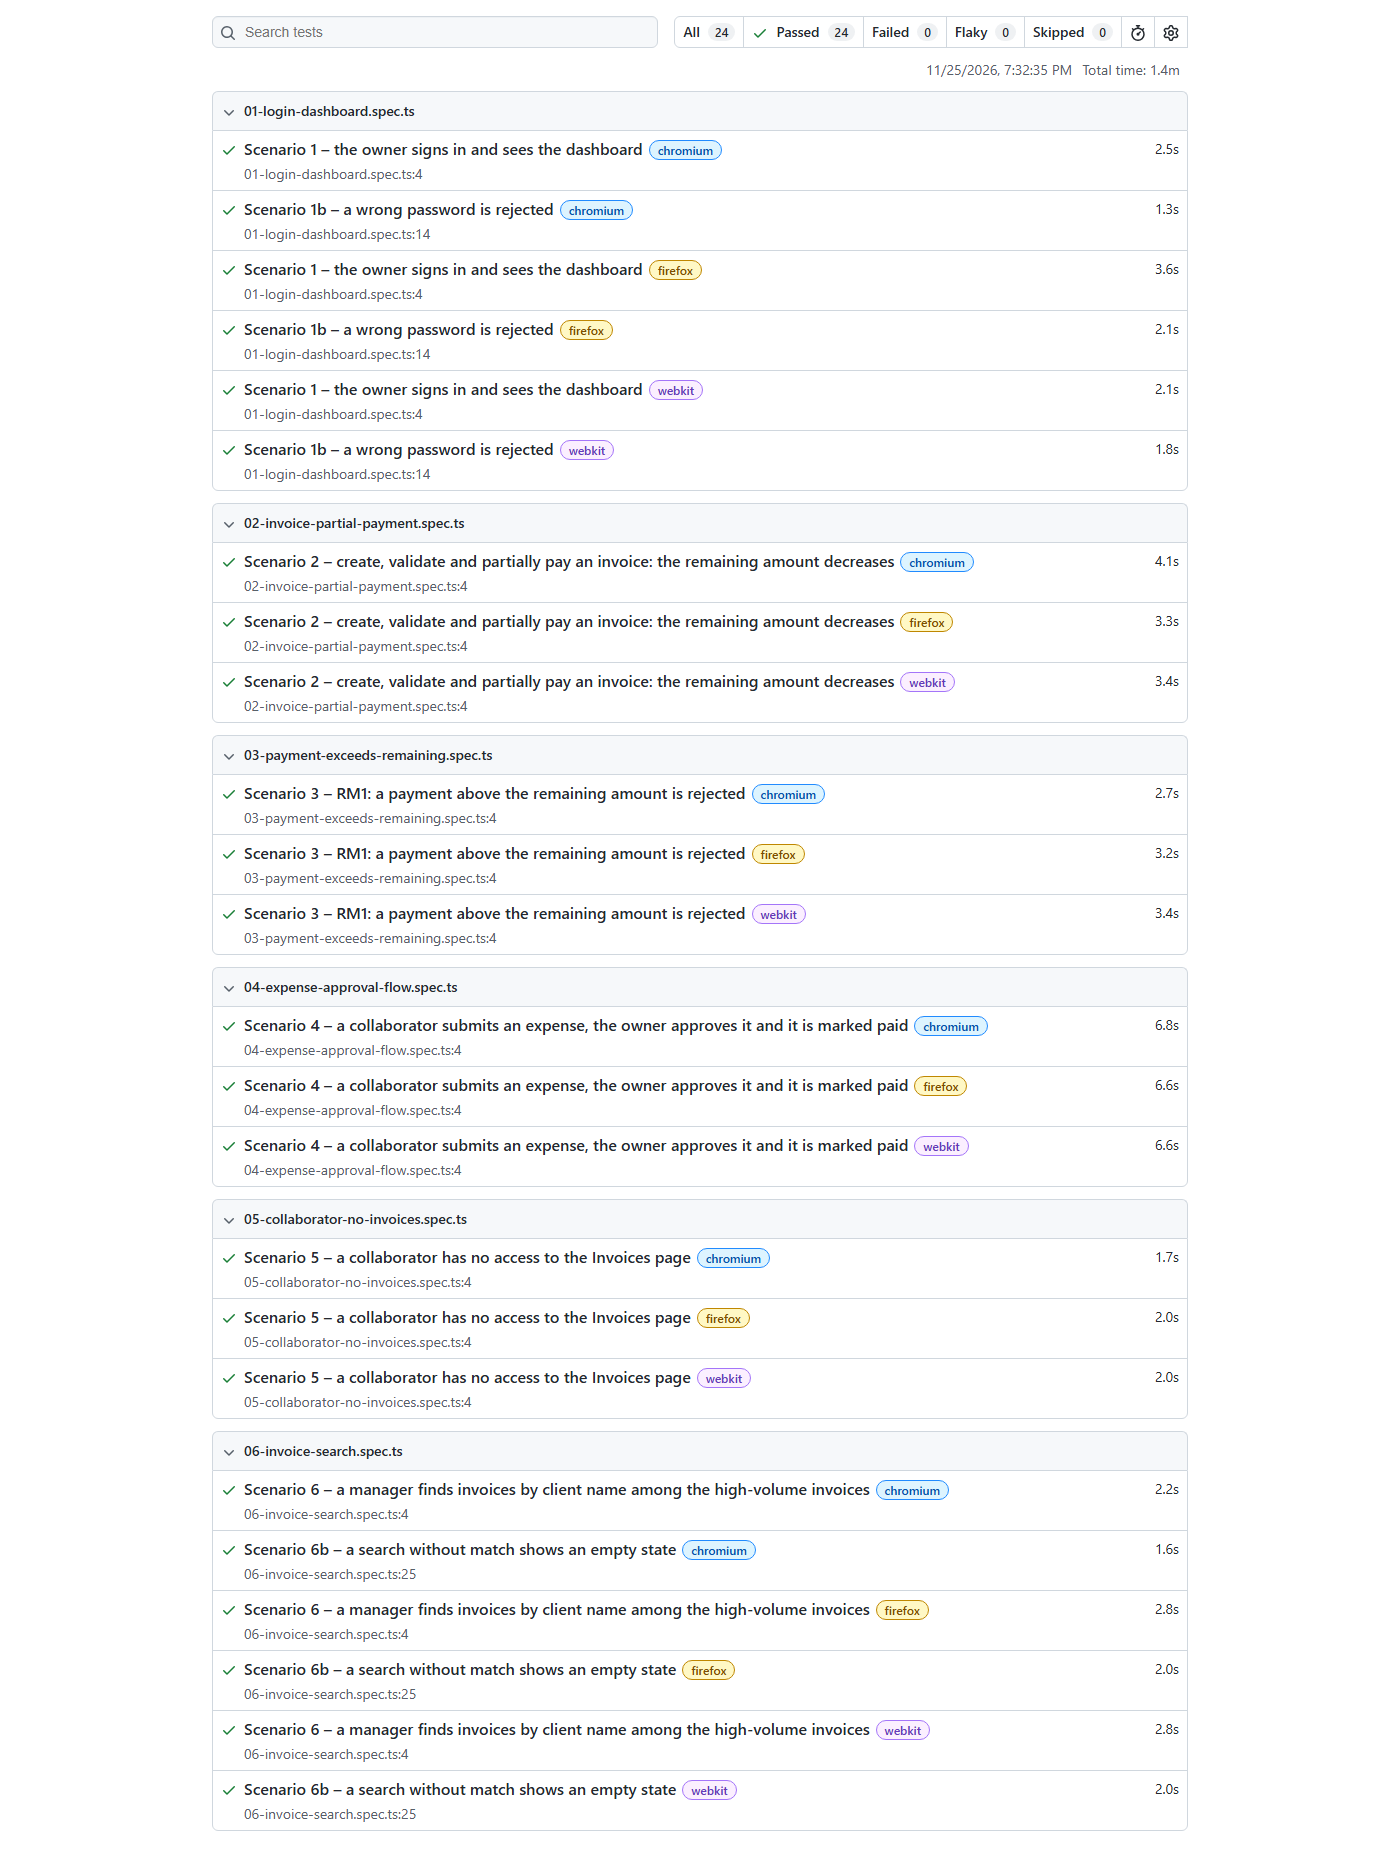
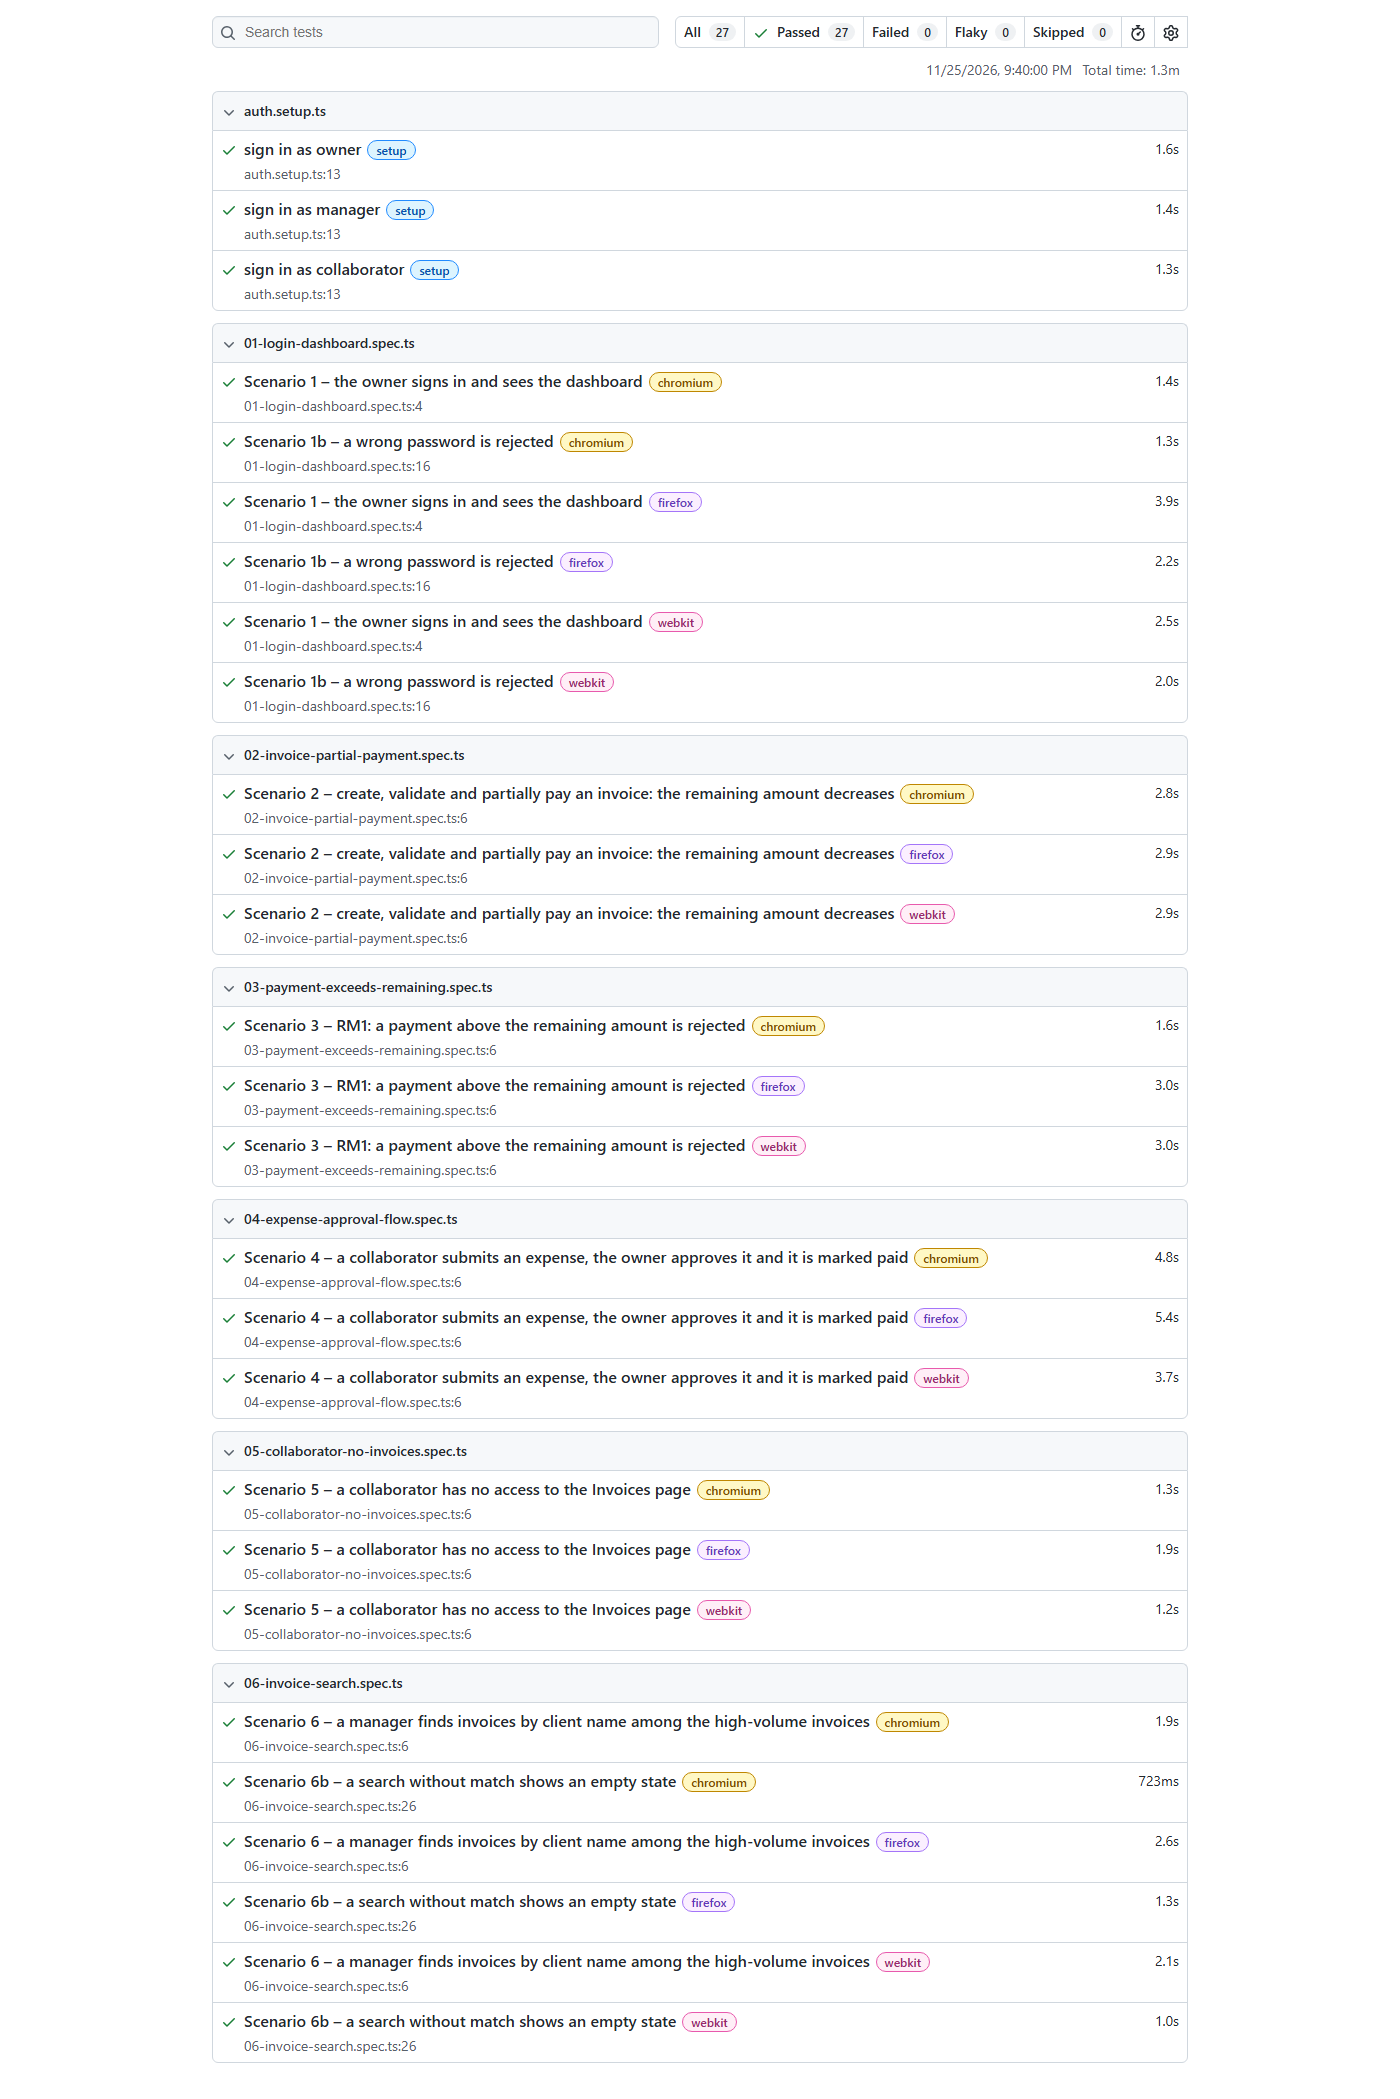
test: reuse one signed-in session per role in E2E
A setup project signs each demo role in once through the real login
form and saves the session; scenarios reuse it. Scenario 4 uses two
browser contexts instead of signing out (sign-out deletes the shared
session). Scenario 1b uses the collaborator account.

A full 3-browser run now makes at most 4 login attempts per account
(manager was 12), so a per-account login rate limit cannot break it.

Evidence 6.1 / 6.3 recaptured from the new run (27/27).

diff --git a/tests/e2e/04-expense-approval-flow.spec.ts b/tests/e2e/04-expense-approval-flow.spec.ts
@@ -1,11 +1,12 @@
 import { expect, test } from "@playwright/test";
-import { login, logout, pdfReceipt, successMessage, uniqueSuffix } from "./helpers";
+import { authFile, pageAs, pdfReceipt, successMessage, uniqueSuffix } from "./helpers";
 
-test("Scenario 4 – a collaborator submits an expense, the owner approves it and it is marked paid", async ({ page }) => {
+test.use({ storageState: authFile("collaborator") });
+
+test("Scenario 4 – a collaborator submits an expense, the owner approves it and it is marked paid", async ({ page, browser }) => {
   const description = `E2E taxi ${uniqueSuffix()}`;
 
   // 1. Collaborator submits the expense with a receipt.
-  await login(page, "collaborator");
   await page.goto("/expenses");
   const form = page.locator("form").filter({ has: page.getByRole("button", { name: "Submit for approval" }) });
   await form.getByLabel("Category").selectOption("Travel");
@@ -17,19 +18,19 @@ test("Scenario 4 – a collaborator submits an expense, the owner approves it an
   await expect(successMessage(page)).toContainText("Expense submitted for approval.");
   const row = page.getByRole("row").filter({ hasText: description });
   await expect(row).toContainText("Pending approval");
-  await logout(page);
 
-  // 2. Owner approves it.
-  await login(page, "owner");
-  await page.goto("/expenses");
-  await page.getByRole("link", { name: description }).click();
-  await expect(page.getByRole("heading", { level: 1, name: description })).toBeVisible();
-  await page.getByRole("button", { name: "Approve" }).click();
-  await expect(successMessage(page)).toContainText("Expense approved.");
-  await expect(page.locator(".page-header .badge")).toHaveText("Approved");
+  // 2. Owner approves it, in a separate browser session.
+  const owner = await pageAs(browser, "owner");
+  await owner.goto("/expenses");
+  await owner.getByRole("link", { name: description }).click();
+  await expect(owner.getByRole("heading", { level: 1, name: description })).toBeVisible();
+  await owner.getByRole("button", { name: "Approve" }).click();
+  await expect(successMessage(owner)).toContainText("Expense approved.");
+  await expect(owner.locator(".page-header .badge")).toHaveText("Approved");
 
   // 3. Owner records the payment.
-  await page.getByRole("button", { name: "Mark as paid" }).click();
-  await expect(successMessage(page)).toContainText("Expense payment recorded.");
-  await expect(page.locator(".page-header .badge")).toHaveText("Paid");
+  await owner.getByRole("button", { name: "Mark as paid" }).click();
+  await expect(successMessage(owner)).toContainText("Expense payment recorded.");
+  await expect(owner.locator(".page-header .badge")).toHaveText("Paid");
+  await owner.context().close();
 });

diff --git a/tests/e2e/helpers.ts b/tests/e2e/helpers.ts
@@ -1,6 +1,12 @@
-import { expect, type Locator, type Page } from "@playwright/test";
+import path from "node:path";
+import { expect, test, type Browser, type Locator, type Page } from "@playwright/test";
 
 export type DemoRole = "owner" | "manager" | "collaborator";
+
+/** Session file saved by `auth.setup.ts` for a demo role. */
+export function authFile(role: DemoRole) {
+  return path.join(__dirname, "..", "..", "playwright", ".auth", `${role}.json`);
+}
 
 /** Signs in through the real login form with a seeded demo account. */
 export async function login(page: Page, role: DemoRole) {
@@ -11,9 +17,17 @@ export async function login(page: Page, role: DemoRole) {
   await expect(page).toHaveURL(/\/dashboard$/);
 }
 
-export async function logout(page: Page) {
-  await page.getByRole("button", { name: "Sign out" }).click();
-  await expect(page).toHaveURL(/\/login$/);
+/**
+ * Opens a page already signed in as `role`, in its own browser context.
+ * Used when one scenario needs two users; never sign out of a saved session,
+ * because signing out deletes it on the server for every later test.
+ */
+export async function pageAs(browser: Browser, role: DemoRole) {
+  const context = await browser.newContext({
+    ...test.info().project.use,
+    storageState: authFile(role),
+  });
+  return context.newPage();
 }
 
 export function mainNav(page: Page): Locator {

diff --git a/tests/e2e/06-invoice-search.spec.ts b/tests/e2e/06-invoice-search.spec.ts
@@ -1,8 +1,9 @@
 import { expect, test } from "@playwright/test";
-import { login } from "./helpers";
+import { authFile } from "./helpers";
+
+test.use({ storageState: authFile("manager") });
 
 test("Scenario 6 – a manager finds invoices by client name among the high-volume invoices", async ({ page }) => {
-  await login(page, "manager");
   await page.goto("/invoices");
   await expect(page.locator(".result-count")).toHaveText(/^\d+ invoices$/);
 
@@ -23,7 +24,6 @@ test("Scenario 6 – a manager finds invoices by client name among the high-volu
 });
 
 test("Scenario 6b – a search without match shows an empty state", async ({ page }) => {
-  await login(page, "manager");
   await page.goto("/invoices?q=no-such-client-xyz");
 
   await expect(page.getByText("No matching invoices")).toBeVisible();

diff --git a/playwright.config.ts b/playwright.config.ts
@@ -18,9 +18,11 @@ export default defineConfig({
     screenshot: "only-on-failure",
   },
   projects: [
-    { name: "chromium", use: { ...devices["Desktop Chrome"] } },
-    { name: "firefox", use: { ...devices["Desktop Firefox"] } },
-    { name: "webkit", use: { ...devices["Desktop Safari"] } },
+    // Signs each demo role in once and saves the session (tests/e2e/auth.setup.ts).
+    { name: "setup", testMatch: /auth\.setup\.ts/, use: { ...devices["Desktop Chrome"] } },
+    { name: "chromium", use: { ...devices["Desktop Chrome"] }, dependencies: ["setup"] },
+    { name: "firefox", use: { ...devices["Desktop Firefox"] }, dependencies: ["setup"] },
+    { name: "webkit", use: { ...devices["Desktop Safari"] }, dependencies: ["setup"] },
   ],
   webServer: {
     command: "npm run dev",

diff --git a/tests/e2e/02-invoice-partial-payment.spec.ts b/tests/e2e/02-invoice-partial-payment.spec.ts
@@ -1,9 +1,9 @@
 import { expect, test } from "@playwright/test";
-import { createValidatedInvoice, detailValue, login, recordPayment, successMessage } from "./helpers";
+import { authFile, createValidatedInvoice, detailValue, recordPayment, successMessage } from "./helpers";
+
+test.use({ storageState: authFile("manager") });
 
 test("Scenario 2 – create, validate and partially pay an invoice: the remaining amount decreases", async ({ page }) => {
-  await login(page, "manager");
-
   await createValidatedInvoice(page, "1000");
   await expect(page.getByRole("heading", { level: 1, name: /^INV-\d{4}-\d{4}$/ })).toBeVisible();
   await expect(page.locator(".page-header .badge")).toHaveText("Validated");

diff --git a/tests/e2e/01-login-dashboard.spec.ts b/tests/e2e/01-login-dashboard.spec.ts
@@ -11,9 +11,11 @@ test("Scenario 1 – the owner signs in and sees the dashboard", async ({ page }
   await expect(mainNav(page).getByRole("link", { name: "Invoices" })).toBeVisible();
 });
 
+// Uses the collaborator account so the owner (signed in by scenario 1 and the
+// setup step) stays well below any per-account login limit.
 test("Scenario 1b – a wrong password is rejected", async ({ page }) => {
   await page.goto("/login");
-  await page.getByLabel("Email").fill("owner@cashpilot.demo");
+  await page.getByLabel("Email").fill("collaborator@cashpilot.demo");
   await page.getByLabel("Password").fill("wrong-password");
   await page.getByRole("button", { name: "Sign in" }).click();
 

diff --git a/tests/e2e/auth.setup.ts b/tests/e2e/auth.setup.ts
@@ -1,0 +1,17 @@
+import { test as setup } from "@playwright/test";
+import { authFile, login, type DemoRole } from "./helpers";
+
+/**
+ * Signs each demo role in once, through the real login form, and saves the
+ * session cookies. The scenario tests reuse these sessions, so a full
+ * 3-browser run makes only a handful of real login attempts per account
+ * (safe with a per-account login rate limit).
+ */
+const roles: DemoRole[] = ["owner", "manager", "collaborator"];
+
+for (const role of roles) {
+  setup(`sign in as ${role}`, async ({ page }) => {
+    await login(page, role);
+    await page.context().storageState({ path: authFile(role) });
+  });
+}

diff --git a/tests/e2e/03-payment-exceeds-remaining.spec.ts b/tests/e2e/03-payment-exceeds-remaining.spec.ts
@@ -1,8 +1,9 @@
 import { expect, test } from "@playwright/test";
-import { createValidatedInvoice, detailValue, errorMessage, login, recordPayment } from "./helpers";
+import { authFile, createValidatedInvoice, detailValue, errorMessage, recordPayment } from "./helpers";
+
+test.use({ storageState: authFile("manager") });
 
 test("Scenario 3 – RM1: a payment above the remaining amount is rejected", async ({ page }) => {
-  await login(page, "manager");
   await createValidatedInvoice(page, "300");
   await expect(detailValue(page, "Remaining")).toContainText("300.00");
 

diff --git a/tests/e2e/05-collaborator-no-invoices.spec.ts b/tests/e2e/05-collaborator-no-invoices.spec.ts
@@ -1,8 +1,10 @@
 import { expect, test } from "@playwright/test";
-import { login, mainNav } from "./helpers";
+import { authFile, mainNav } from "./helpers";
+
+test.use({ storageState: authFile("collaborator") });
 
 test("Scenario 5 – a collaborator has no access to the Invoices page", async ({ page }) => {
-  await login(page, "collaborator");
+  await page.goto("/dashboard");
 
   // The navigation only offers the collaborator's pages.
   await expect(mainNav(page).getByRole("link", { name: "Expenses" })).toBeVisible();

diff --git a/docs/rapport-iso25010-hassen.md b/docs/rapport-iso25010-hassen.md
@@ -30,7 +30,11 @@ résultat renvoie à sa preuve dans `docs/preuves/`.
 2. **Outil et commande** : Playwright 1.65 sur 3 moteurs,
    `npx playwright test --project=chromium --project=firefox --project=webkit`.
 3. **Résultat obtenu** : **24/24 tests passés** (8 tests × 3 moteurs :
-   Chromium 159, Firefox 159, WebKit 27.2), 0 échec, 0 instable, durée 1,4 min.
+   Chromium 159, Firefox 159, WebKit 27.2), plus les 3 connexions de préparation
+   (une par rôle), soit 27/27 ; 0 échec, 0 instable, durée 1,3 min.
+   Chaque rôle se connecte une seule fois par le vrai formulaire et la session est
+   réutilisée : au plus 4 tentatives de connexion par compte pour tout le run,
+   compatible avec une limitation des tentatives de connexion (section 6.6).
 4. **Preuves** : `6.3-3-navigateurs.png`, `6.3-playwright-3-navigateurs.log`
    (en complément du test manuel Chrome / Firefox / Edge de Fares).
 5. **Conclusion** : **conforme** (3 moteurs ≥ 2 exigés).
@@ -81,7 +85,7 @@ résultat reste visible dans chaque run.
 | RM5 | Dépense refusée jamais payable | 6.1 | `transitions.test.ts` (4 tests RM5) ; E2E scénario 4 | Vitest, Playwright | Passés ×3 navigateurs | `6.7-vitest.png`, `6.3-3-navigateurs.png` | Hassan | ✅ |
 | RM6 | Montant > 0, 2 décimales maximum | 6.1 | `money.test.ts` (9 tests RM6) | Vitest | Passés (négatif, zéro, 3 décimales, texte, vide refusés) | `6.7-vitest.png` | Hassan | ✅ |
 | 6.1 | Fonctionnalités exactes (part unitaires + E2E) | 6.1 | `tests/unit/`, `tests/e2e/` | Vitest, Playwright | 61/61 unitaires ; 8/8 E2E Chromium | `6.7-vitest.png`, `6.1-playwright-rapport.png` | Hassan | ✅ |
-| 6.3 | ≥ 2 navigateurs | 6.3 | `tests/e2e/*` | Playwright (Chromium, Firefox, WebKit) | 24/24 passés | `6.3-3-navigateurs.png` | Hassan | ✅ |
+| 6.3 | ≥ 2 navigateurs | 6.3 | `tests/e2e/*` | Playwright (Chromium, Firefox, WebKit) | 24/24 passés (+ 3 connexions de préparation) | `6.3-3-navigateurs.png` | Hassan | ✅ |
 | 6.7 | Couverture mesurée > 70 % | 6.7 | `npm run test:coverage` | Vitest v8 | Lignes 72,18 % sur `lib/` (hors Server Actions) ; `tsc` 0 erreur | `6.7-couverture.png` | Hassan | ✅ |
 | 6.7 | Intégration continue | 6.7 | `.github/workflows/ci.yml` | GitHub Actions | Étapes vertes en local ; run GitHub à capturer après le push | `6.7-ci-github.png` | Hassan | ⏳ |
 
